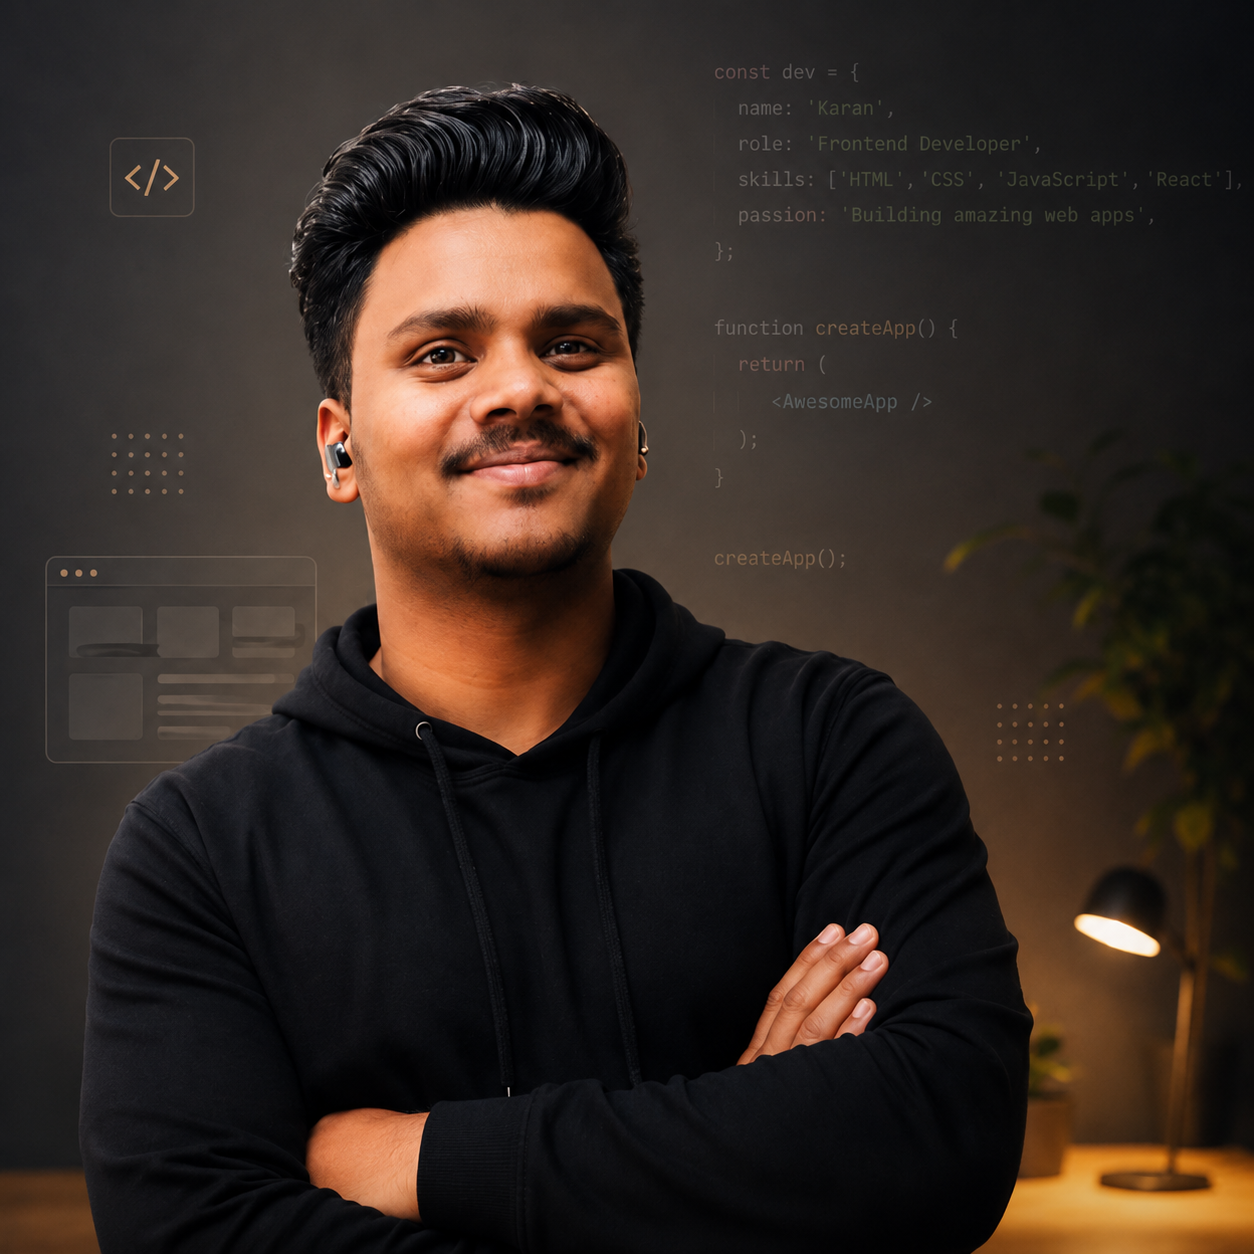
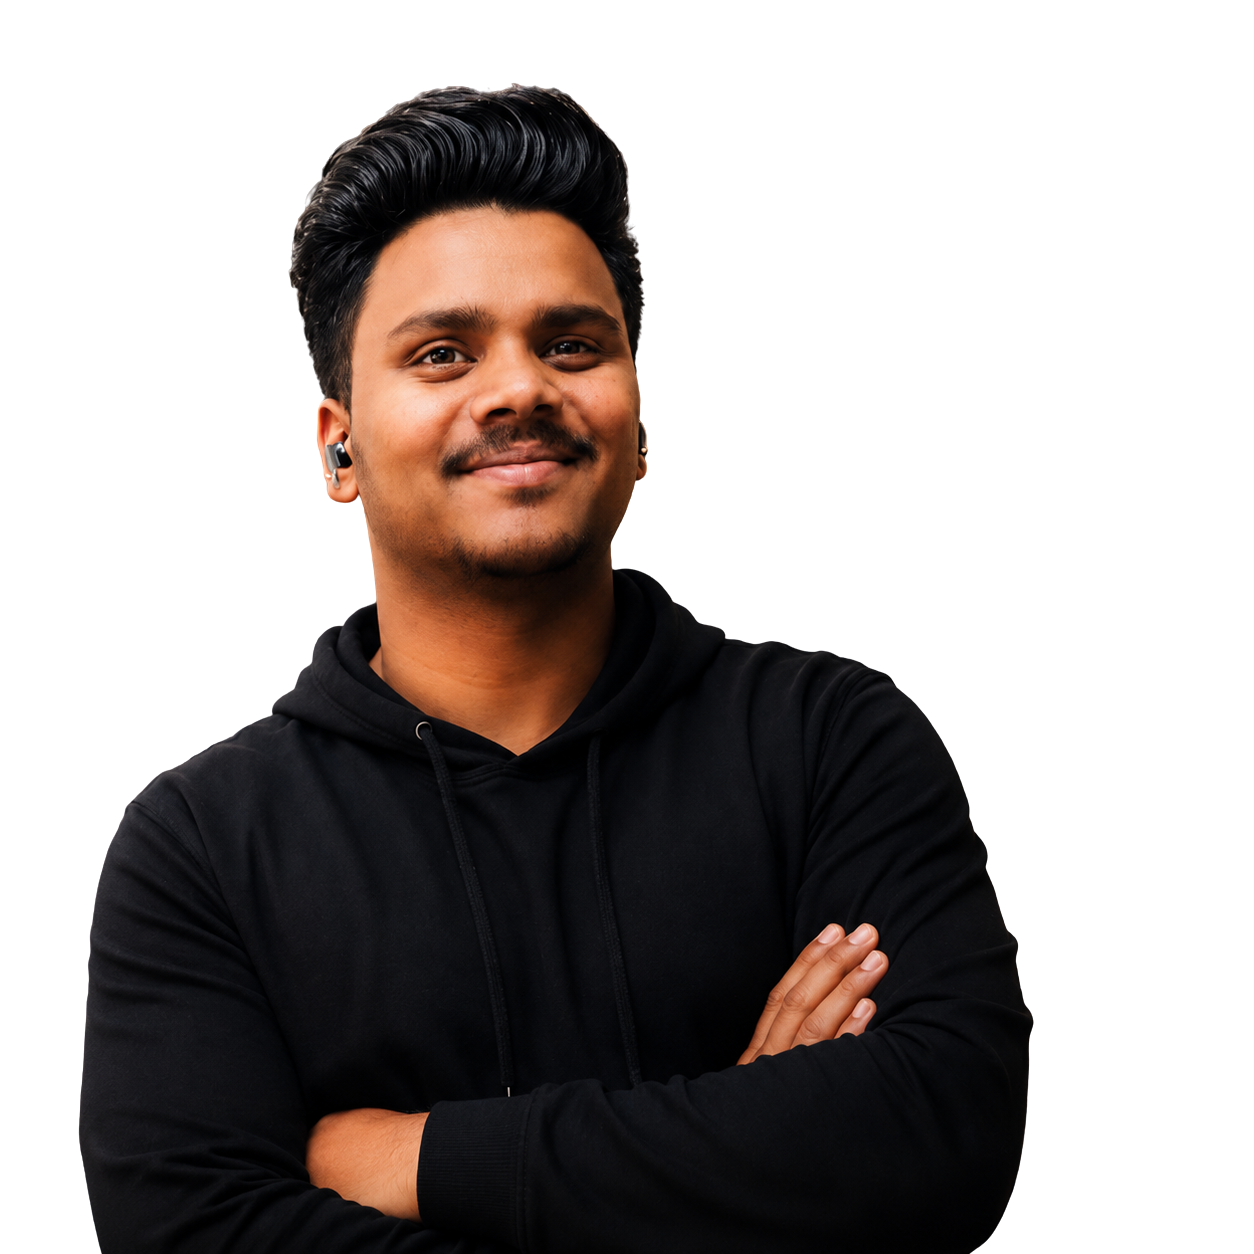
Hero section work started and styling is not done

diff --git a/src/components/HeroSection.jsx b/src/components/HeroSection.jsx
@@ -1,0 +1,27 @@
+import React from 'react'
+import me from "../assets/me.png"
+import heroImg from "../assets/bg-hero.png"
+
+export const HeroSection = () => {
+  return (
+    <section className='HeroSection font-[Inter] ' >
+   <div className=' flex justify-around relative bg-cover bg-center bg-no-repeat ' style={{backgroundImage:`url(${heroImg})`}}>
+     <div className="leftSide  pt-15">
+        <p className='text-3xl pb-2'>Hi, I'm</p>
+        <p className='text-5xl pb-1'>KARAN SINGH</p>
+        <p className='text-3xl pb-3'>Frontend Developer</p>
+        <div className='w-150 pb-4'><p className='text-2xl'>I built fast, responsive and modern websites.Using React,JavaScript and Tailwind CSS </p></div>
+        <div className=''>
+            <div className="infoBox">View Projects</div>
+            <div className="infoBox">Download Resume</div>
+        </div>
+        
+    </div>
+    <div className='RightSide max-w-150 '>
+        <img className='w-full' src={me} alt="me-pic" />
+    </div>
+   </div>
+   </section>
+    
+  )
+}

diff --git a/src/App.jsx b/src/App.jsx
@@ -1,9 +1,13 @@
 import React from 'react'
 import { NavBar } from './components/NavBar'
+import { HeroSection } from './components/HeroSection'
 
 export const App = () => {
   return (
+    <>
      <NavBar/>
+     <HeroSection/>
+     </>
 
   )
 }